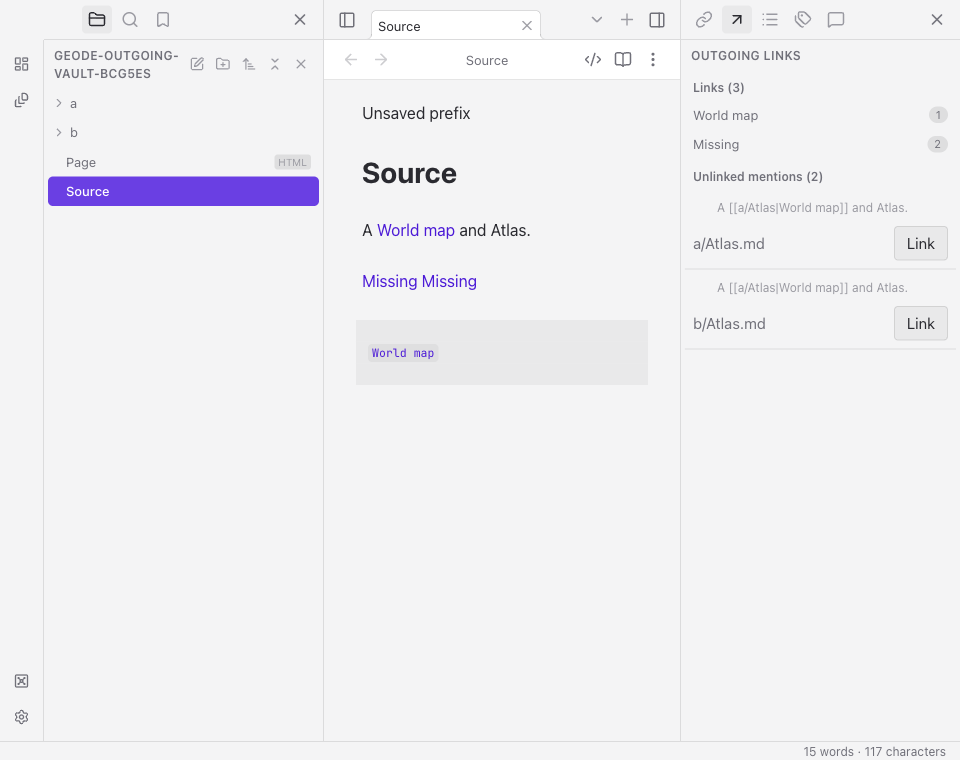
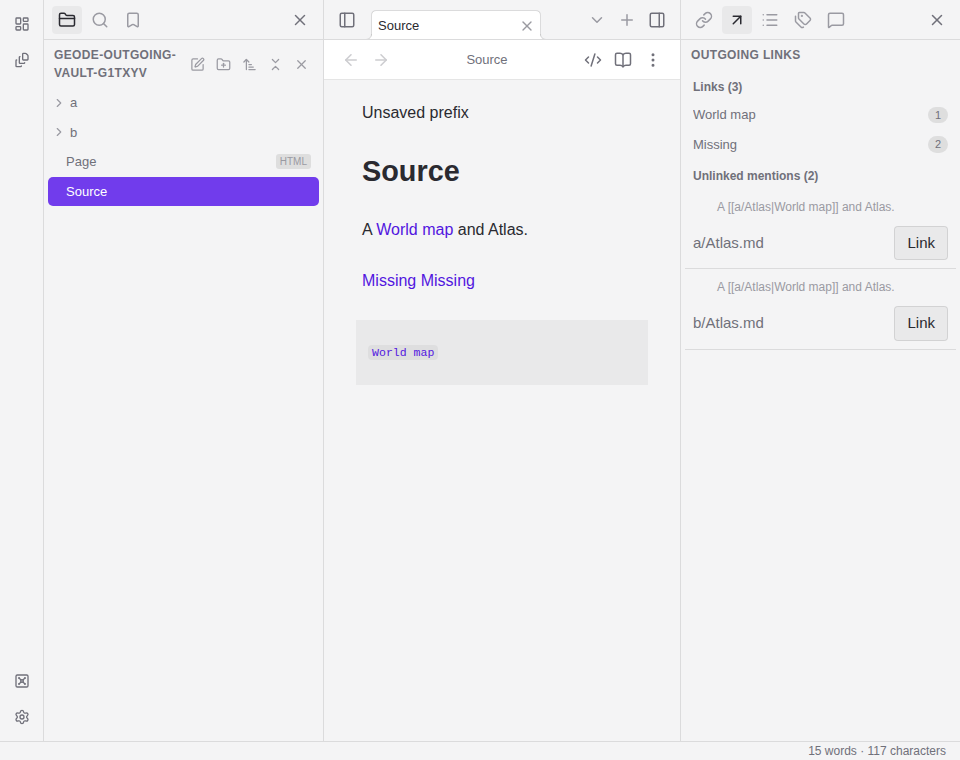
docs: record verified Linux outgoing delivery captures

diff --git a/docs/spec/outgoing-links.md b/docs/spec/outgoing-links.md
@@ -41,8 +41,8 @@ does not establish complete Outgoing links or linking parity.
 ## Preview
 
 The screenshots below use a synthetic temporary vault with aliases and duplicate
-basenames. Captured 2026-10-14 on macOS in local Electron from source commit
-`96dbb21` (branch `feat/overnight-outgoing-links`), at 1950×1280 and 960×760
+basenames. Captured 2026-10-15 on Linux test-worker-2 in Electron from source commit
+`d53a008` (branch `feat/overnight-outgoing-delivery`), at 1280×815 and 960×760
 pixels. They show the real Electron pane after converting an alias from an
 unsaved editor buffer; no user vault data is included.
 
